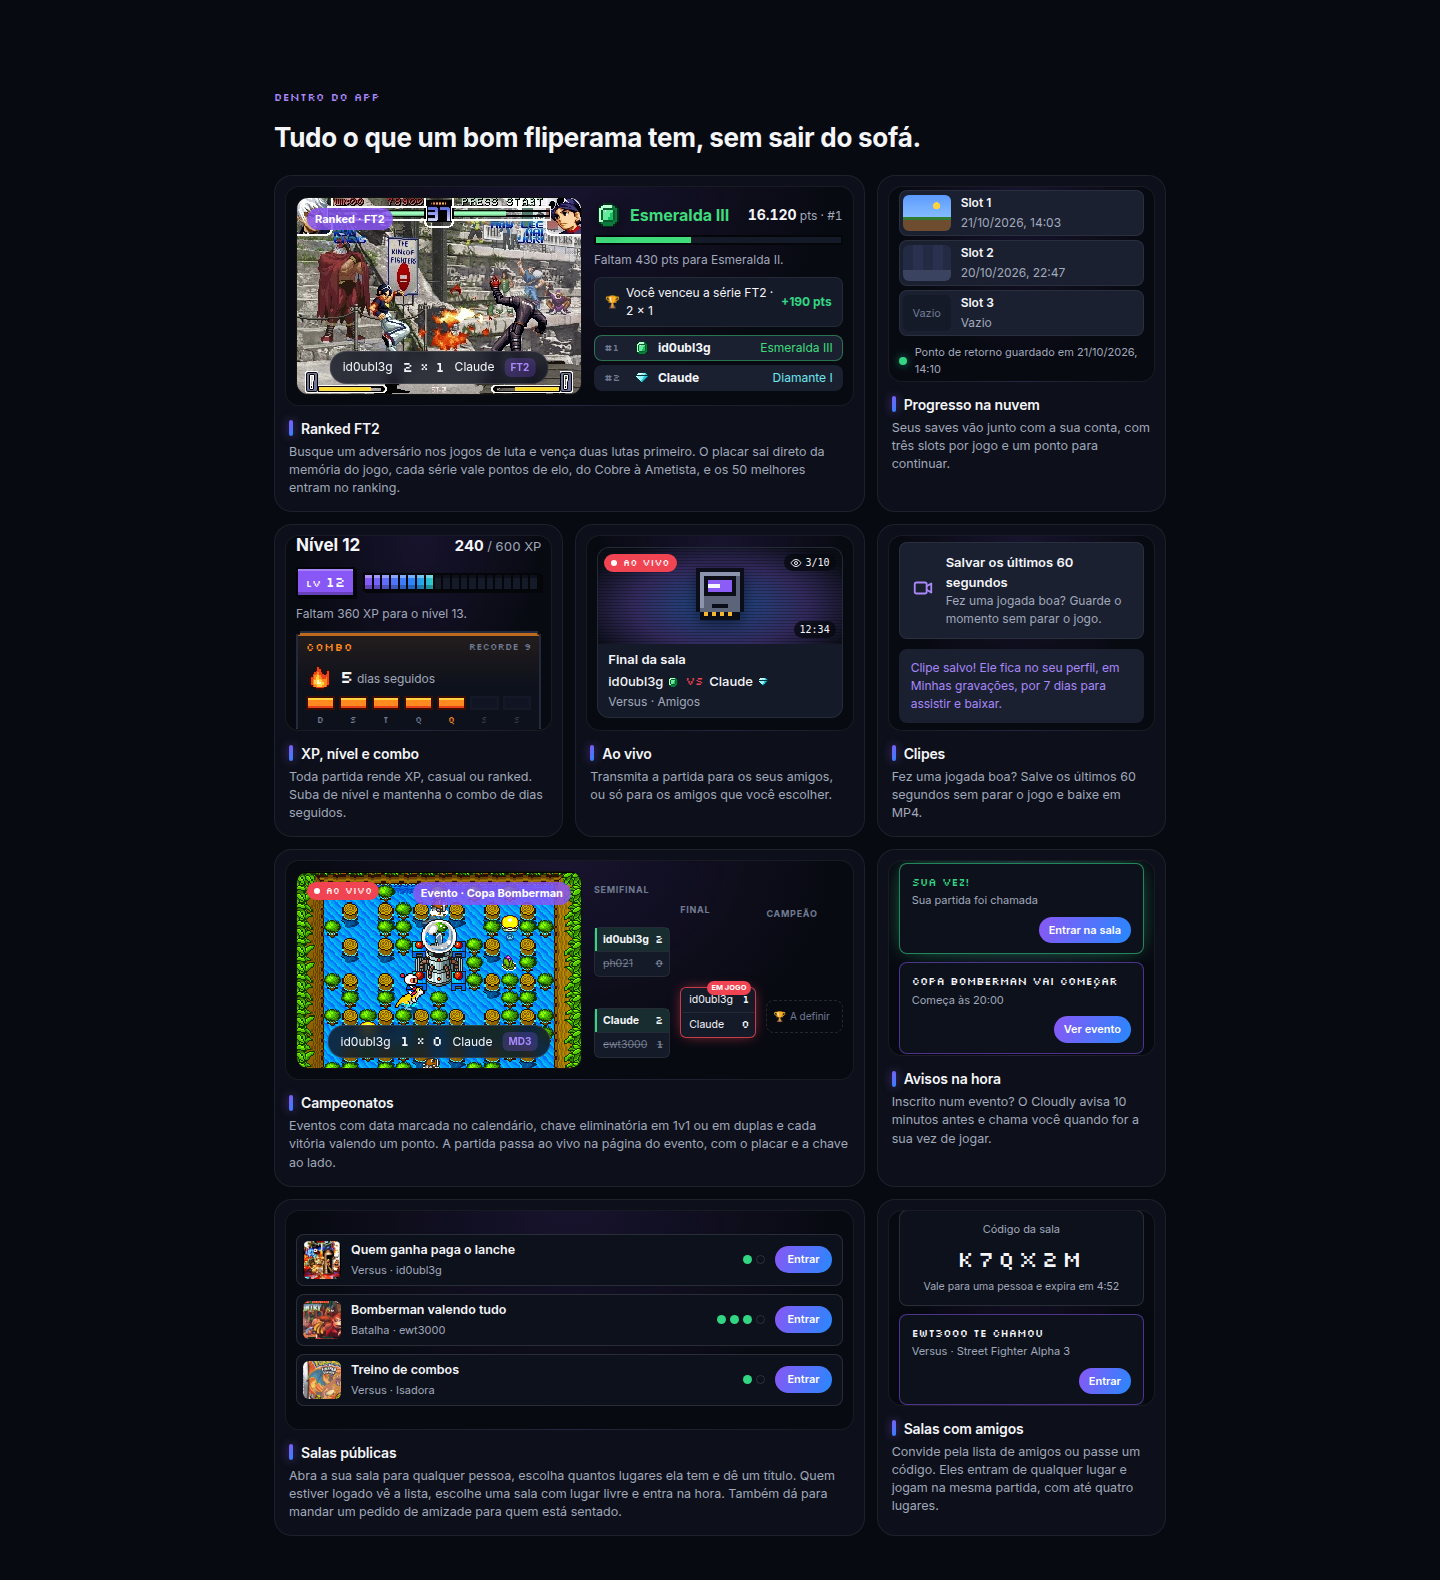
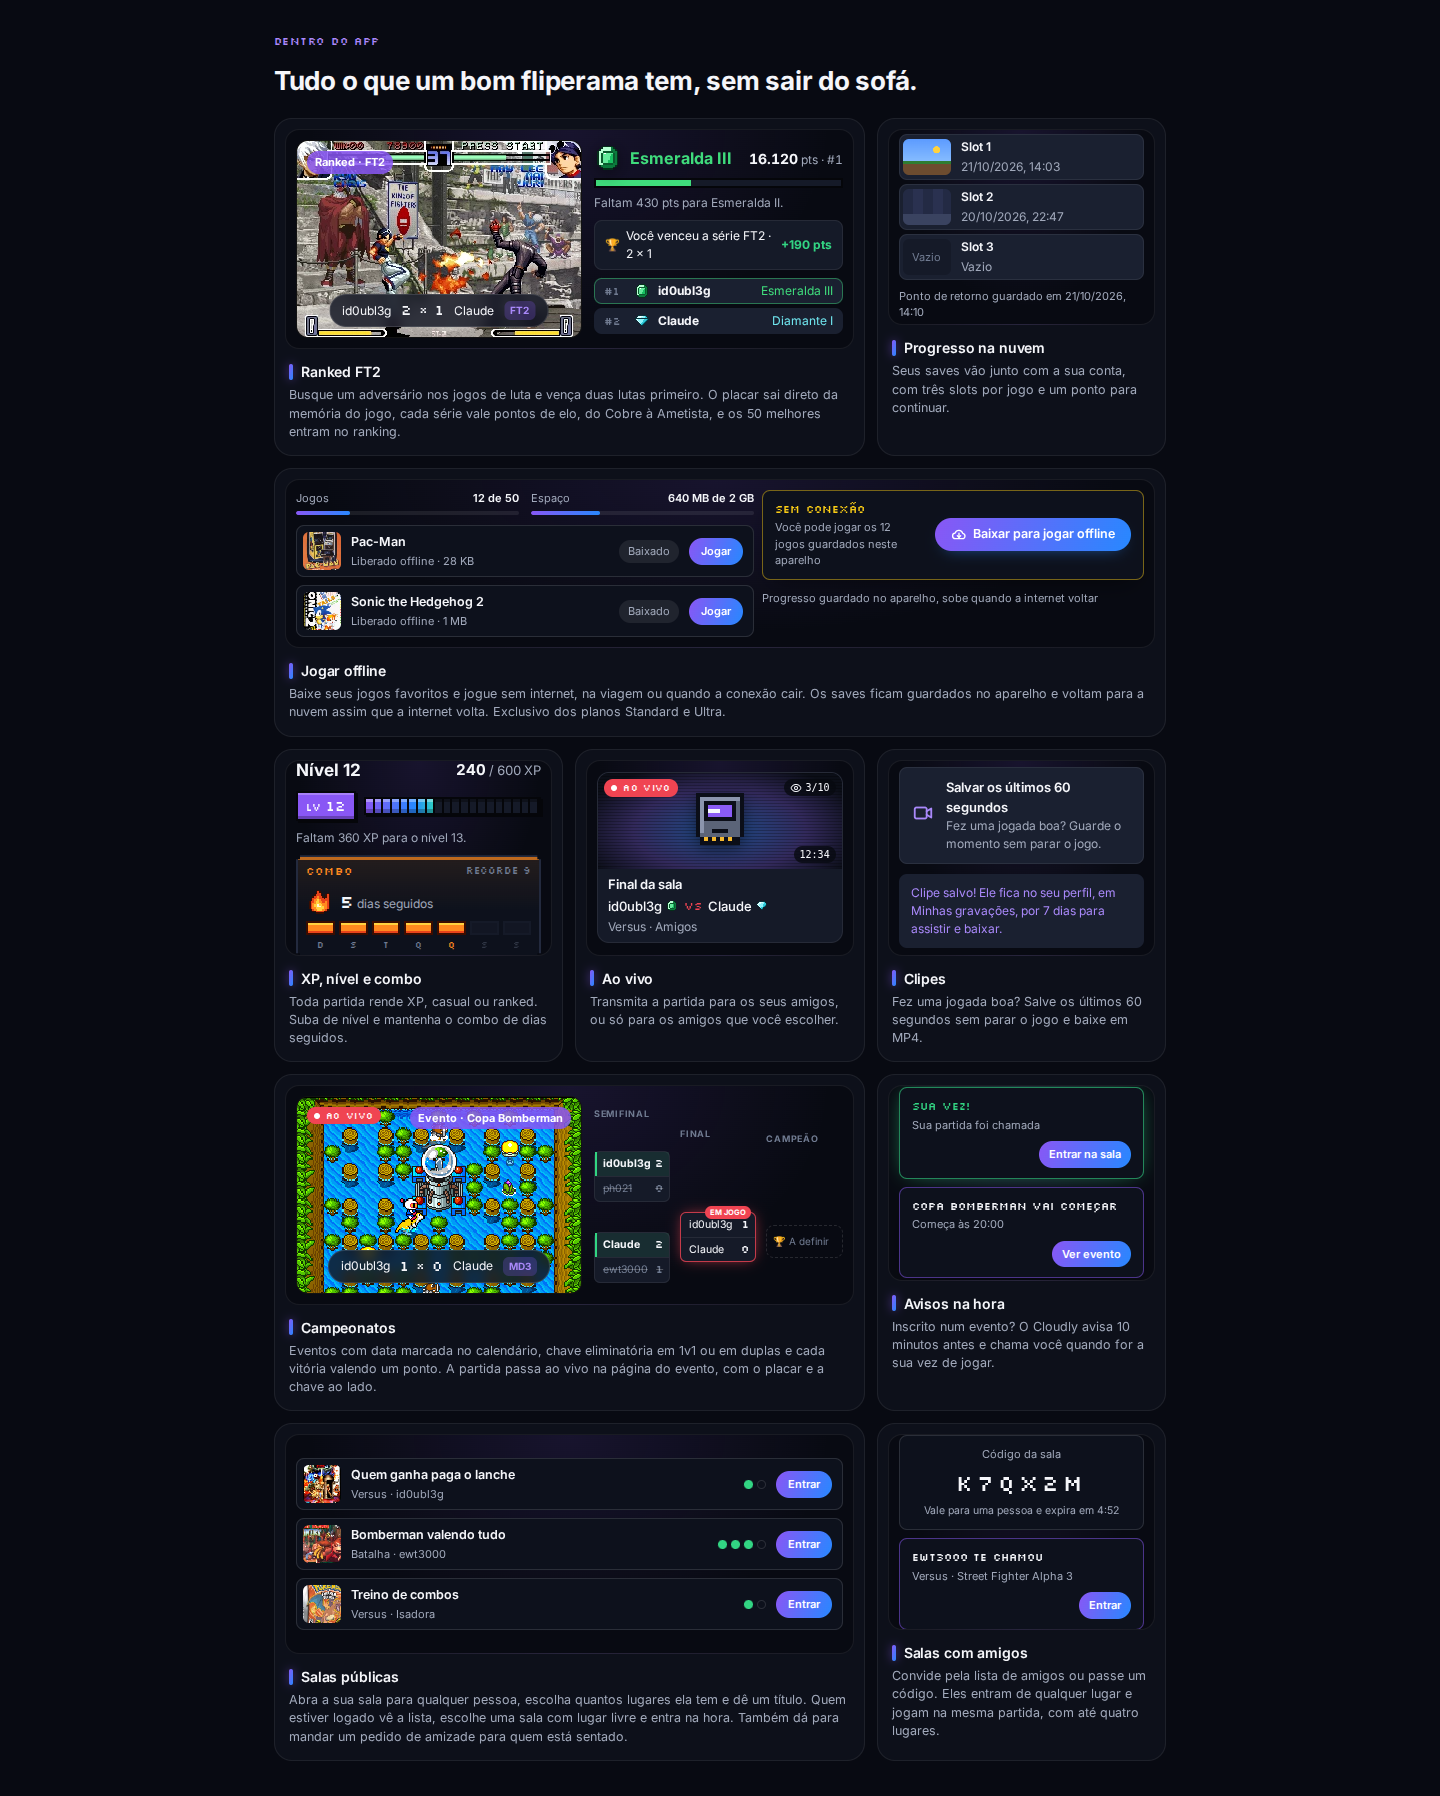
docs: describe offline play and update the features screenshot

Changed region(s): [[0.1875, 0.031, 0.8125, 0.9614]]

diff --git a/README.md b/README.md
@@ -42,15 +42,15 @@ Cloudly Game Landing is a static page, with plain HTML, CSS and JavaScript and n
 - Images that are still loading when the loading screen leaves hold their place with a skeleton, as in the app, and fade in when they arrive; the device under the pointer lifts a little
 - The twelve consoles sit on a roulette wheel whose hub is off the right edge of the screen: the console in front is large, with its glow color and name, and the one before and after come in tilted, cut by the screen. The wheel opens with a full spin, then turns on its own and stops while the pointer is over it; it also turns by dragging it, or with the arrow keys once focused, and a strong flick lets it spin free, slow down and land on a random console; the console in front lifts a little under the pointer, as on the console shelf of the app. On narrow screens the wheel turns sideways, with the neighbours cut by the sides of the screen
 - A large **Jogar agora** button under the devices, with a light sweeping across it, marked **Em breve** until the platform opens, next to **Como funciona**, which scrolls to the steps. The small one in the header only shows once the large one scrolls away, and the header turns to glass as the page scrolls
-- **Como funciona** in one section: three numbered steps to start playing, each drawn as a piece of the app (open in the browser on any device, pick a game in the catalog, call friends to the room), then the other features as cards: ranked, with the FT2 scoreboard over a fighting game, the elo card, the series result and the top of the ranking, save slots with the resume point, the level with the XP bar and the daily combo, a live card, the clip button, tournaments, with an event live over Super Bomberman 3 next to its bracket, the event alerts, public rooms, drawn as a list of open rooms with their seats and a join button, and rooms with friends, with the invite code and the invite alert
-- Help chat with Cloudly in the corner, opened as a tall rectangle: fourteen frequent questions as suggestions, a list of all of them, and typed questions matched by keywords. On a phone the chat takes the whole screen, follows the area above the keyboard and keeps the keyboard closed until the text field is tapped, so the suggestions stay in sight
+- **Como funciona** in one section: three numbered steps to start playing, each drawn as a piece of the app (open in the browser on any device, pick a game in the catalog, call friends to the room), then the other features as cards: ranked, with the FT2 scoreboard over a fighting game, the elo card, the series result and the top of the ranking, save slots with the resume point, offline play with the games kept on the device, the space they take and the **Sem conexão** notice, the level with the XP bar and the daily combo, a live card, the clip button, tournaments, with an event live over Super Bomberman 3 next to its bracket, the event alerts, public rooms, drawn as a list of open rooms with their seats and a join button, and rooms with friends, with the invite code and the invite alert
+- Help chat with Cloudly in the corner, opened as a tall rectangle: fifteen frequent questions as suggestions, a list of all of them, and typed questions matched by keywords. On a phone the chat takes the whole screen, follows the area above the keyboard and keeps the keyboard closed until the text field is tapped, so the suggestions stay in sight
 - Brand look from the app: dark surfaces, the purple and blue gradient, Poppins and the Silkscreen pixel font, pill buttons and the pixel art sprites of the app
 - Works with the keyboard, follows the reduced motion setting of the system and has no horizontal scroll on phones
 
 <!-- markdownlint-disable MD033 -->
 
 <p align="center">
-  <img src=".github/features.png" alt="Dentro do app section with the ranked, save slots, XP, live, clip, tournament, event alert, public rooms and rooms with friends cards" width="100%">
+  <img src=".github/features.png" alt="Dentro do app section with the ranked, save slots, offline play, XP, live, clip, tournament, event alert, public rooms and rooms with friends cards" width="100%">
 </p>
 
 <!-- markdownlint-enable MD033 -->
@@ -154,7 +154,7 @@ Open `http://localhost:8000`. To publish it, upload the folder to any static hos
 
 <!-- markdownlint-enable MD033 -->
 
-1. The chat answers fourteen frequent questions about the platform, from what Cloudly Game is to how XP, levels, ranked and tournaments work. Questions about things that are not decided yet, such as the price, are not answered.
+1. The chat answers fifteen frequent questions about the platform, from what Cloudly Game is to playing without internet and how XP, levels, ranked and tournaments work. Questions about things that are not decided yet, such as the price, are not answered.
 2. After each answer, up to three questions that were not asked yet show up as suggestions, and they leave as soon as the conversation moves on.
 3. Typed questions are lowercased and stripped of accents, then matched against keywords of each question. The question with the most matching keywords is answered; when nothing matches, Cloudly says it cannot answer that yet and suggests questions.
 4. Everything runs in the browser, with no server and no record of what was asked.
